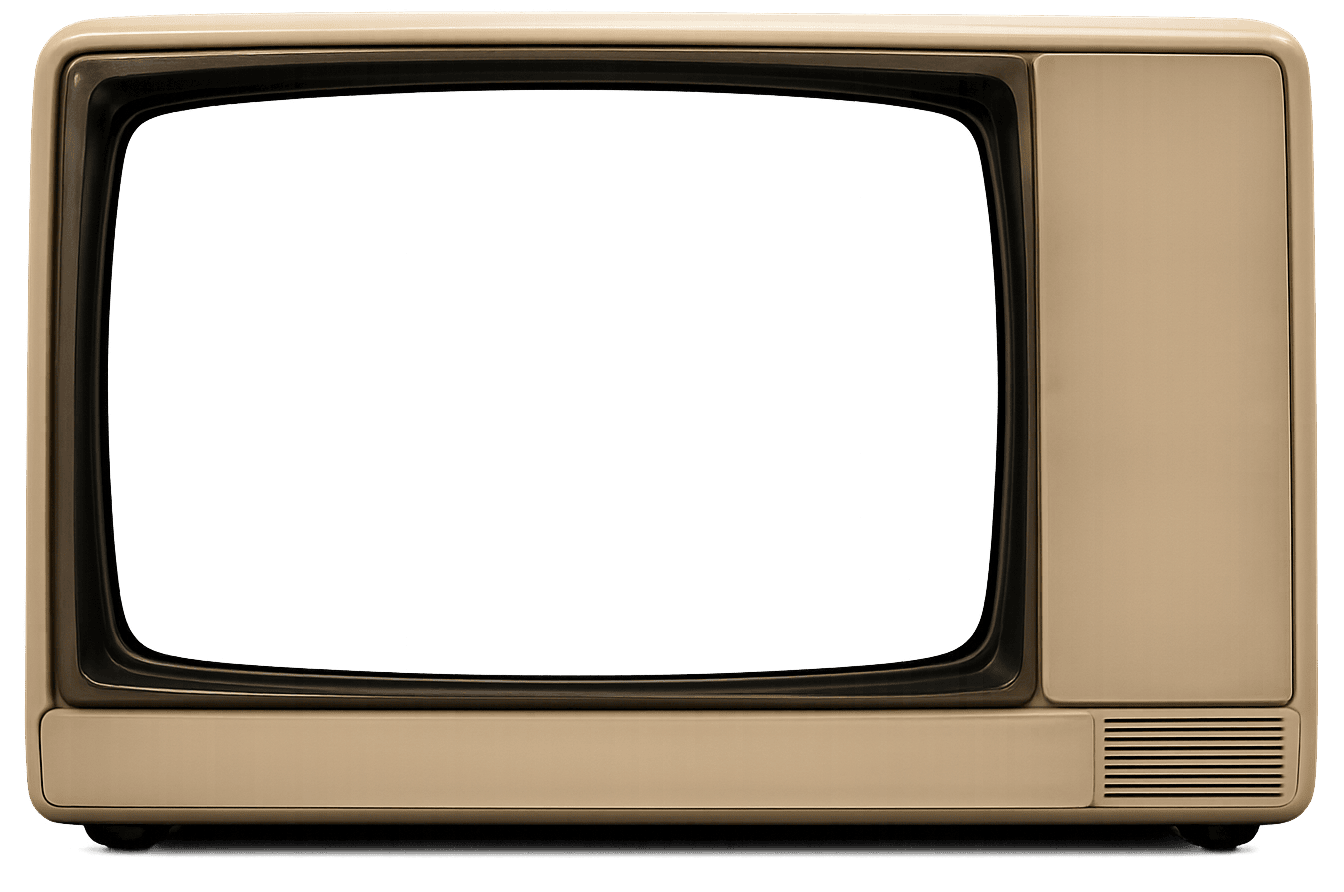
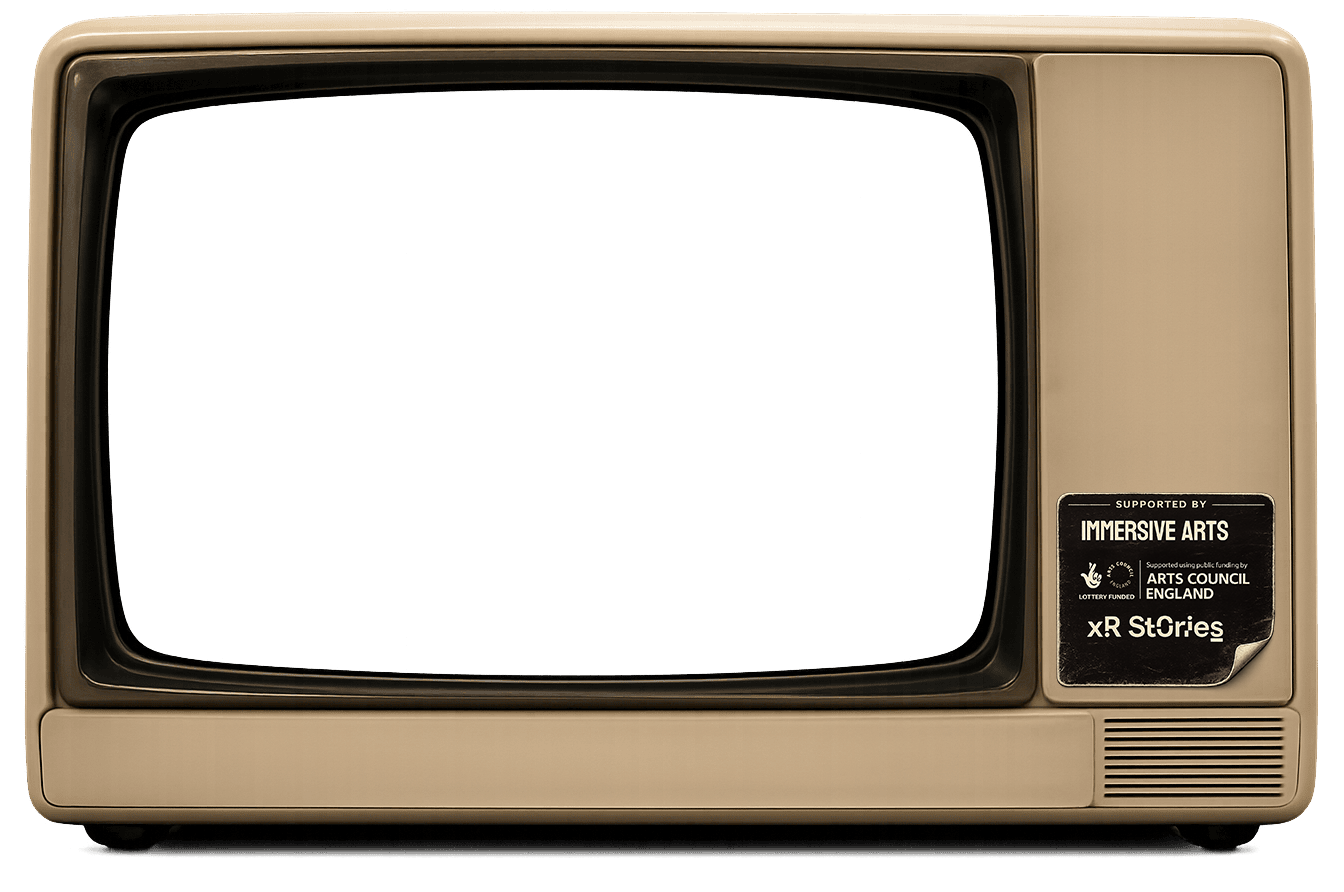
Bake the supported-by sticker into the chassis PNG
The sticker is now part of the tv-chassis.png artwork rather than a
separate absolutely-positioned <img> overlay. That removes the whole
positioning-and-scaling game (which kept fighting iPad viewports) —
the sticker now scales perfectly with the chassis at every size
because they're the same image.

- tv-chassis.png swapped to the sticker-baked version (1344×892, same
  dimensions, 518KB vs the previous 214KB)
- <img class="supported-sticker"> element removed from the markup
- .supported-sticker CSS + boundary-mode rule stripped
- Standalone sticker-supported-by.png removed from tv/assets/
  (the standalone PNG and the source PSDs now live under sources/,
  which is gitignored — keeping the originals out of the build)
- Add .gitignore to keep sources/ and .DS_Store noise out of the repo

Changed region(s): [[0.7812, 0.5448, 0.9688, 0.787]]

diff --git a/tv/index.html b/tv/index.html
@@ -795,35 +795,6 @@ body.fullscreen-mode .exit-fs-btn {
 }
 .channel-panel .channel-btn { white-space: nowrap; }
 
-/* "Supported by" sticker — slapped onto the chassis below the channel
-   panel, on the empty right-side plastic. Slight rotation + drop shadow
-   so it reads as a real sticker rather than a flat layer. */
-.supported-sticker {
-  position: absolute;
-  left: 77%;
-  top: 57%;            /* sits clear of the channel-panel CONTACT button
-                          bottom edge — the previous 52.7% read fine on
-                          desktop but tucked the sticker right under
-                          CONTACT on iPad (≈9px gap is too tight at the
-                          smaller chassis scale). 57% gives consistent
-                          breathing room across all viewports. */
-  width: 19%;          /* slightly wider than the channel-panel column to fit
-                          the three-logo layout without crushing the type */
-  height: auto;        /* preserves the sticker's natural aspect ratio */
-  z-index: 3;
-  display: block;
-  pointer-events: none;
-  /* scale 0.89 = ~10% smaller than natural size at the width above. */
-  transform:
-    translate(0.4cqi, 0.6cqi)
-    rotate(-0.3deg)
-    scale(0.89);
-  transform-origin: 50% 50%;
-  filter:
-    drop-shadow(0 1px 0 rgba(255, 240, 200, 0.18))
-    drop-shadow(0 2px 4px rgba(20, 12, 6, 0.45));
-}
-body.boundary-mode .supported-sticker { display: none !important; }
 
 .channel-header {
   font-family: 'Euclid', sans-serif;
@@ -1686,11 +1657,6 @@ body.boundary-mode .supported-sticker { display: none !important; }
         </div>
       </aside>
 
-      <!-- Supported-by sticker — slapped on the chassis under the channel buttons -->
-      <img class="supported-sticker" src="assets/sticker-supported-by.png" alt="Supported by">
-      <!-- The Lottery logo, sitting inside the sticker. Position dialled in
-           via the placement widget below. -->
-
       <!-- Knob row — overlaid on the bottom bezel of the TV -->
       <div class="knob-row">
         <div class="knob is-power">
@@ -2478,57 +2444,6 @@ body.boundary-mode .supported-sticker { display: none !important; }
     });
     return out;
   };
-})();
-
-// ─── TEMP DEBUG READOUT — REMOVE AFTER iPad SCALING IS PINNED DOWN ─────
-(() => {
-  const panel = document.createElement('div');
-  panel.id = 'pp-debug';
-  panel.style.cssText = [
-    'position:fixed','top:8px','right:8px','z-index:9999',
-    'background:#0a0805','color:#f0e6d2',
-    'font:11px/1.45 -apple-system,Menlo,monospace',
-    'padding:10px 12px','border-radius:6px',
-    'box-shadow:0 4px 12px rgba(0,0,0,0.4)',
-    'max-width:260px','pointer-events:auto',
-    'border:1px solid rgba(255,240,200,0.25)',
-  ].join(';');
-  panel.innerHTML = '<div style="font-weight:700;letter-spacing:0.1em;margin-bottom:4px">DEBUG</div><div id="pp-debug-body">…</div><button id="pp-debug-close" style="margin-top:8px;background:#3a2a1a;color:#f0e6d2;border:0;padding:4px 8px;border-radius:4px;font:inherit;cursor:pointer">close</button>';
-  document.body.appendChild(panel);
-
-  document.getElementById('pp-debug-close').onclick = () => panel.remove();
-
-  const fmt = (n) => Number(n).toFixed(0);
-  const update = () => {
-    const housing = document.querySelector('.tv-housing');
-    const page    = document.querySelector('.page');
-    const sticker = document.querySelector('.supported-sticker');
-    const panelEl = document.querySelector('.channel-panel');
-    const hr = housing ? housing.getBoundingClientRect() : null;
-    const pr = page    ? page.getBoundingClientRect()    : null;
-    const sr = sticker ? sticker.getBoundingClientRect() : null;
-    const cr = panelEl ? panelEl.getBoundingClientRect() : null;
-    const vv = window.visualViewport;
-    const ua = navigator.userAgent;
-    const isIPad = /iPad/i.test(ua) || (/Macintosh/.test(ua) && navigator.maxTouchPoints > 1);
-    const lines = [
-      `UA: ${isIPad ? 'iPad-class' : (ua.match(/(iPhone|Android|Mac|Windows)/) || ['?'])[0]}`,
-      `screen: ${screen.width}×${screen.height}  dpr ${window.devicePixelRatio}`,
-      `window.innerW: ${fmt(window.innerWidth)}`,
-      `documentElement.clientW: ${fmt(document.documentElement.clientWidth)}`,
-      vv ? `visualViewport: ${fmt(vv.width)}×${fmt(vv.height)} scale ${vv.scale.toFixed(2)}` : 'visualViewport: n/a',
-      pr ? `.page width: ${fmt(pr.width)}` : '',
-      hr ? `.tv-housing: ${fmt(hr.width)}×${fmt(hr.height)}` : '',
-      cr && hr ? `.channel-panel: ${fmt(cr.width)}px (${(cr.width/hr.width*100).toFixed(1)}%)` : '',
-      sr && hr ? `.sticker box: ${fmt(sr.width)}px (${(sr.width/hr.width*100).toFixed(1)}%)` : '',
-      sr && hr ? `.sticker visual: ${fmt(sr.width*0.89)}px (${(sr.width*0.89/hr.width*100).toFixed(1)}%)` : '',
-    ].filter(Boolean);
-    document.getElementById('pp-debug-body').textContent = lines.join('\n');
-    document.getElementById('pp-debug-body').style.whiteSpace = 'pre';
-  };
-  update();
-  window.addEventListener('resize', update);
-  window.addEventListener('orientationchange', () => setTimeout(update, 200));
 })();
 </script>
 